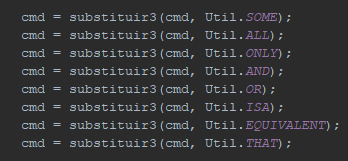
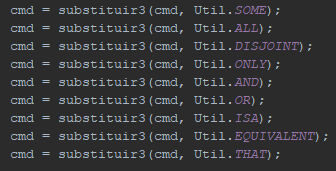
disjoint com novas imagens

Changed region(s): [[0.0298, 0.0311, 0.9226, 0.7143], [0.0298, 0.7453, 0.9821, 0.9317]]

diff --git a/tcc.tex b/tcc.tex
@@ -582,7 +582,7 @@ Idiomas como o português, inglês e espanhol possuem um conjunto de regras e no
 \centering
 \begin{tabular}{l|l}
 Regra  & Definição  \\ 
-\hline <OP>  & \begin{tabular}[l]{@{}l@{}} some || all || only || and || or || isa || equivalent || that \end{tabular} \\
+\hline <OP>  & \begin{tabular}[l]{@{}l@{}} some || all || only || and || or || isa || equivalent || that || disjoint \end{tabular} \\
 \hline <ID>  & \begin{tabular}[l]{@{}l@{}} a-Z* \end{tabular} \\
 \hline <NUM> & \begin{tabular}[l]{@{}l@{}} 0-9* \end{tabular} \\
 \hline <FIM> & \begin{tabular}[l]{@{}l@{}} ; || <DEF> || $\varepsilon$ \end{tabular} \\ 
@@ -609,7 +609,7 @@ Para que o usuário consiga utilizar o sistema, se faz necessário que ele possu
 \begin{tabular}{l|l|l}
  Reservado  & Descrição & Exemplo  \\ 
 \hline isa & \begin{tabular}[l]{@{}l@{}} Uma classe X é um \\tipo de classe Y.\end{tabular} & Gato isa Felino \\ \hline
-equivalent & \begin{tabular}[l]{@{}l@{}} Uma classe X é um tipo \\ de classe irmã de Y.\end{tabular} & JanelaBanheiro equivalent JanelaCasa \\ \hline and / that & \begin{tabular}[l]{@{}l@{}} Uma classe X interseção\\ com uma classe Y.\end{tabular} & (Correr and Pular) isa ExercicioFisico  \\ \hline or & \begin{tabular}[l]{@{}l@{}}Uma classe X disjunção\\ de uma classe Y. \end{tabular} & Trabalhar isa nor(Dormir or Comer) \\ \hline only & \begin{tabular}[l]{@{}l@{}}Uma propriedade X\\ only classe Y. \end{tabular} & podeLatir only Cachorro \\ \hline some & \begin{tabular}[l]{@{}l@{}}Uma propriedade X\\ some classe Y. \end{tabular} & andarNoMuro some Gato \\ \hline all & \begin{tabular}[l]{@{}l@{}}Uma propriedade X \\ all classe Y. \end{tabular} & comerGrama all Vaca \\ \hline not & Negação de uma Classe & not Gato \\ \hline nor & Negação de uma expressão & nor(Gato isa Felino) \\ 
+equivalent & \begin{tabular}[l]{@{}l@{}} Uma classe X é um tipo \\ de classe irmã de Y.\end{tabular} & JanelaBanheiro equivalent JanelaCasa \\ \hline and / that & \begin{tabular}[l]{@{}l@{}} Uma classe X interseção\\ com uma classe Y.\end{tabular} & (Correr and Pular) isa ExercicioFisico  \\ \hline or & \begin{tabular}[l]{@{}l@{}}Uma classe X disjunção\\ de uma classe Y. \end{tabular} & Trabalhar isa nor(Dormir or Comer) \\ \hline only & \begin{tabular}[l]{@{}l@{}}Uma propriedade X\\ only classe Y. \end{tabular} & podeLatir only Cachorro \\ \hline some & \begin{tabular}[l]{@{}l@{}}Uma propriedade X\\ some classe Y. \end{tabular} & andarNoMuro some Gato \\ \hline all & \begin{tabular}[l]{@{}l@{}}Uma propriedade X \\ all classe Y. \end{tabular} & comerGrama all Vaca \\ \hline not & Negação de uma Classe & not Gato \\ \hline nor & Negação de uma expressão & nor(Gato isa Felino) \\ \hline disjoint & Uma classe X é disjunção da classe Y & Ferrari disjoint BMW \\
 \end{tabular}
 \caption{Palavras Reservadas}
 \label{tab:tabelaPalavrasReservadas}
